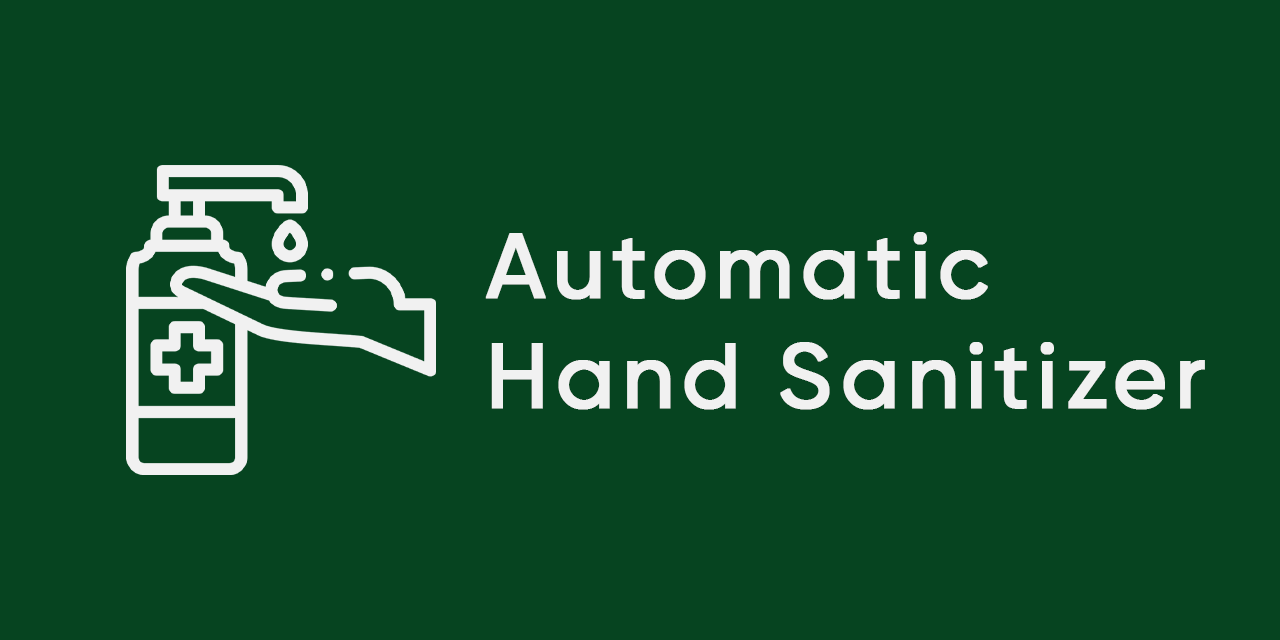
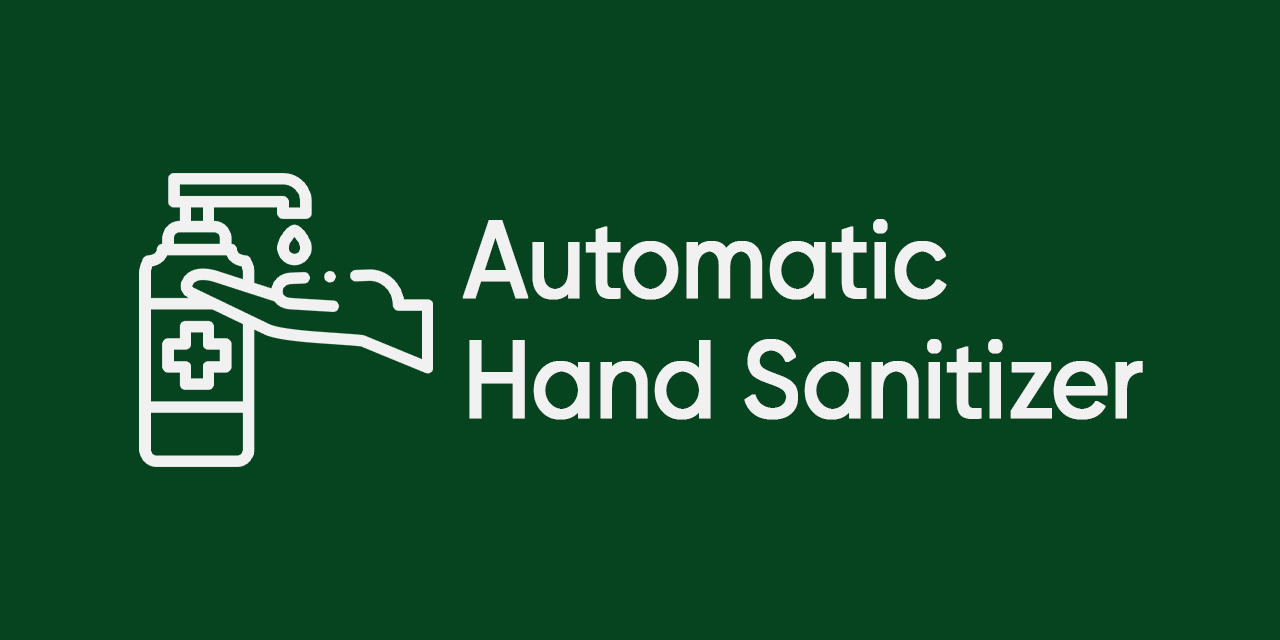
Updated Project images

Changed region(s): [[0.0938, 0.25, 0.9375, 0.75]]

diff --git a/index.html b/index.html
@@ -260,7 +260,7 @@
             </p>
           </div>
           <div class="project__img">
-            <a href=""><img src="assets/img/work1.jpg" alt="" /></a>
+            <a href=""><img src="assets/img/work2.jpg" alt="" /></a>
             <p class="project__desc"></p>
           </div>
         </div>
